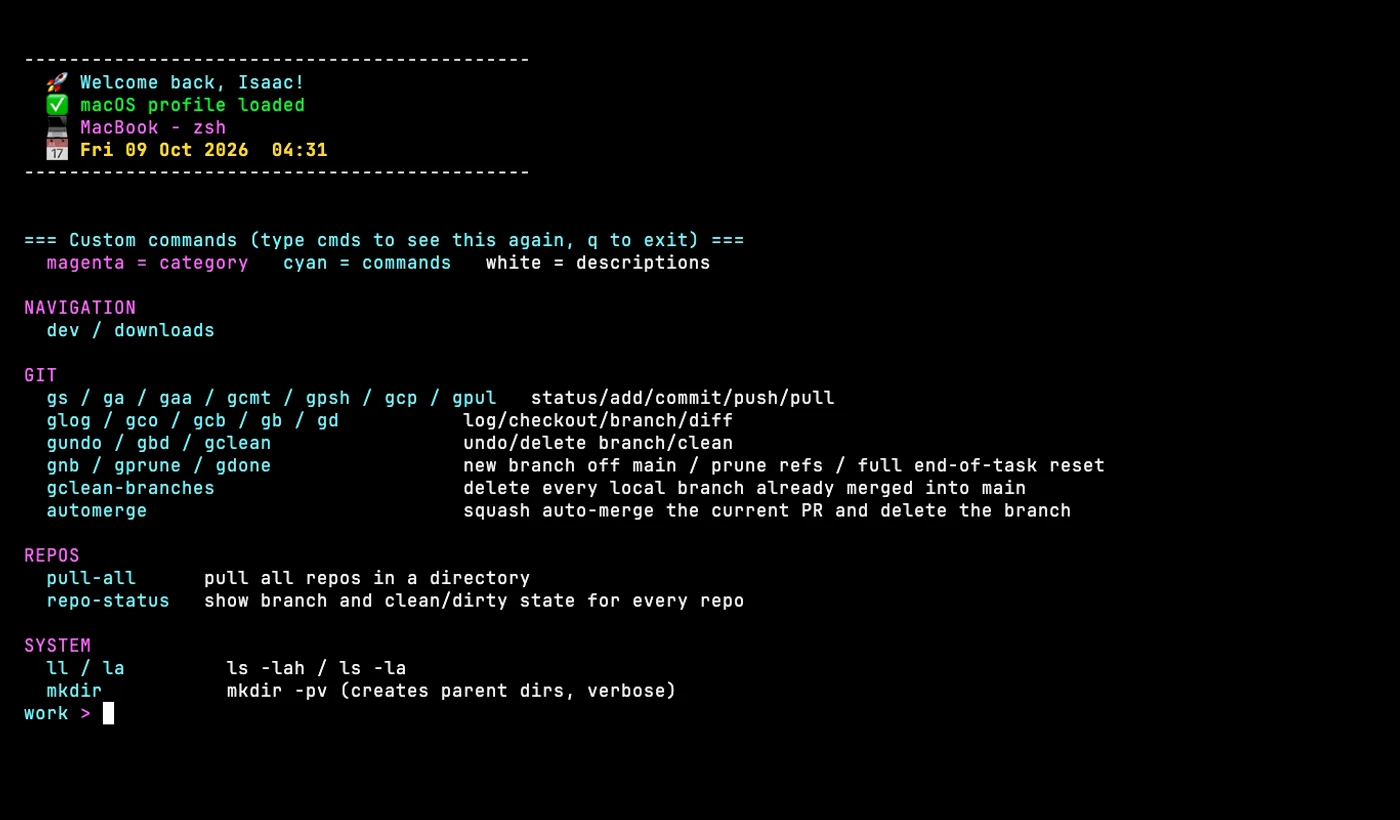
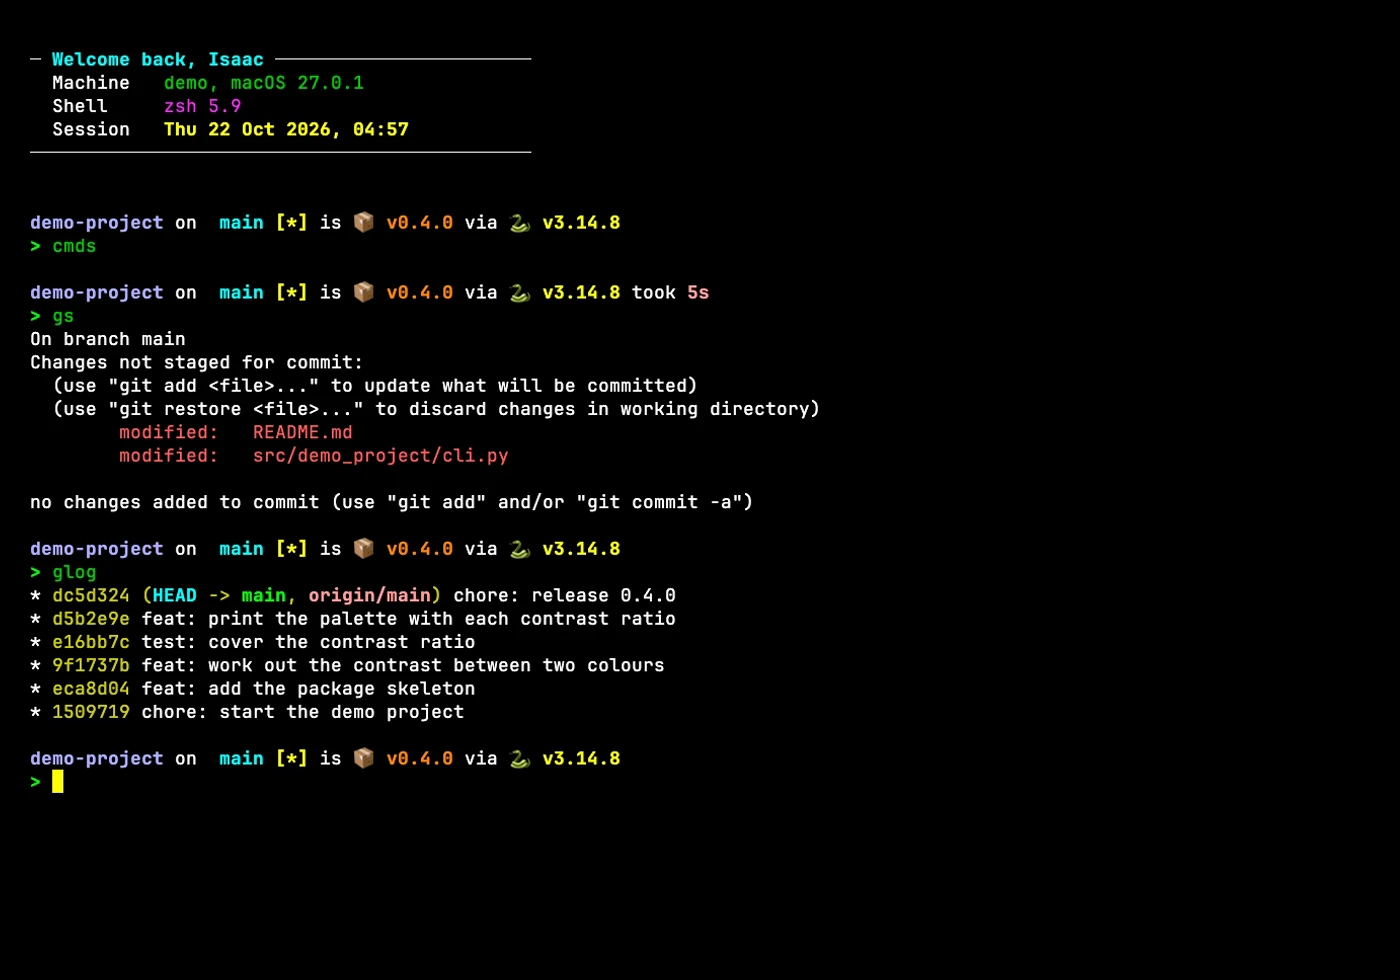
docs: re-record the demo media in Zacess Deep Contrast (#83)
Closes #82

Changed region(s): [[0.0, 0.0305, 0.7986, 0.8841]]

diff --git a/README.md b/README.md
@@ -10,19 +10,35 @@
 
 ## In action
 
-Screenshots in the High Contrast palette, dark and light. Each one links to a short animation of the same scene.
+Screenshots in Zacess Deep Contrast Dark and Light, recorded in a demo project. Each one links
+to a short animation of the same scene.
 
 ### macOS shell
 
 | Dark | Light |
 | --- | --- |
-| [![Dark: the dotfiles welcome banner followed by the cmds cheat-sheet of git and system aliases](docs/demo/dotfiles-dark.webp)](docs/demo/dotfiles-dark.gif) | [![Light: the dotfiles welcome banner followed by the cmds cheat-sheet of git and system aliases](docs/demo/dotfiles-light.webp)](docs/demo/dotfiles-light.gif) |
+| [![Dark: the welcome banner with a neutral machine name, then gs and glog in a demo project under the Starship prompt](docs/demo/dotfiles-dark.webp)](docs/demo/dotfiles-dark.gif) | [![Light: the welcome banner with a neutral machine name, then gs and glog in a demo project under the Starship prompt](docs/demo/dotfiles-light.webp)](docs/demo/dotfiles-light.gif) |
 
 ### Linux (Ubuntu in OrbStack)
 
 | Dark | Light |
 | --- | --- |
-| [![Dark: the same dotfiles in bash on Ubuntu: the banner, the OS version, the numbered topic files and a git log](docs/demo/linux-dark.webp)](docs/demo/linux-dark.gif) | [![Light: the same dotfiles in bash on Ubuntu: the banner, the OS version, the numbered topic files and a git log](docs/demo/linux-light.webp)](docs/demo/linux-light.gif) |
+| [![Dark: the same dotfiles in bash on Ubuntu: the banner, the numbered topic files and a git log of a demo project](docs/demo/linux-dark.webp)](docs/demo/linux-dark.gif) | [![Light: the same dotfiles in bash on Ubuntu: the banner, the numbered topic files and a git log of a demo project](docs/demo/linux-light.webp)](docs/demo/linux-light.gif) |
+
+### Re-recording
+
+Each scene is a [VHS](https://github.com/charmbracelet/vhs) script in [`docs/demo`](docs/demo),
+recorded once per theme in a throwaway demo under `/tmp/demo`, so the shots show the real config
+with nothing personal on screen. The colours come from
+[Zacess Themes](https://github.com/zacesshq/themes).
+
+```sh
+brew install vhs gifsicle webp
+docs/demo/record.sh           # every scene, dark and light
+docs/demo/record.sh linux     # one scene, by its file name
+```
+
+The Linux scene runs in the OrbStack Ubuntu machine, so OrbStack needs to be running.
 
 ## About
 

diff --git a/CHANGELOG.md b/CHANGELOG.md
@@ -10,6 +10,7 @@ Versions increment by one patch step (0.0.1) per release.
 
 ### Added
 
+- The screenshots and clips are recorded again in Zacess Deep Contrast Dark and Light from VHS scripts in `docs/demo`, using the real config in a throwaway demo project. `docs/demo/record.sh` makes them all again with one command.
 - `zt` (and `zacess-theme`) on macOS, Linux and Windows switches every installed editor and terminal to one of the eight Zacess themes at once: VS Code, Zed, the JetBrains IDEs, Neovim, Eclipse, Terminal.app, iTerm2, Kitty, Alacritty, Ghostty and Windows Terminal. `zt <theme>` fixes one theme and stops following the system, `zt auto [dark] [light]` follows the system light and dark appearance where a tool can, `zt list` lists the themes and `zt current` reads each tool's setting back. `scripts/zt.py` does the work on macOS and Linux and `windows/scripts/zt.ps1` on Windows, with `zt.cmd` and `zacess-theme.cmd` for Command Prompt.
 - Command Prompt setup in `windows/cmd/`: `autorun.cmd` runs from the `AutoRun` value for interactive windows only, sets a prompt and prints the banner in the terminal's 16 colour slots and loads doskey macros made from the PowerShell aliases and short functions by `scripts/build-cmd-macros.py`. `windows/cmd/README.md` lists the functions that stay PowerShell-only and why. `.gitattributes` keeps `.cmd` and `.doskey` files on Windows line endings.
 
